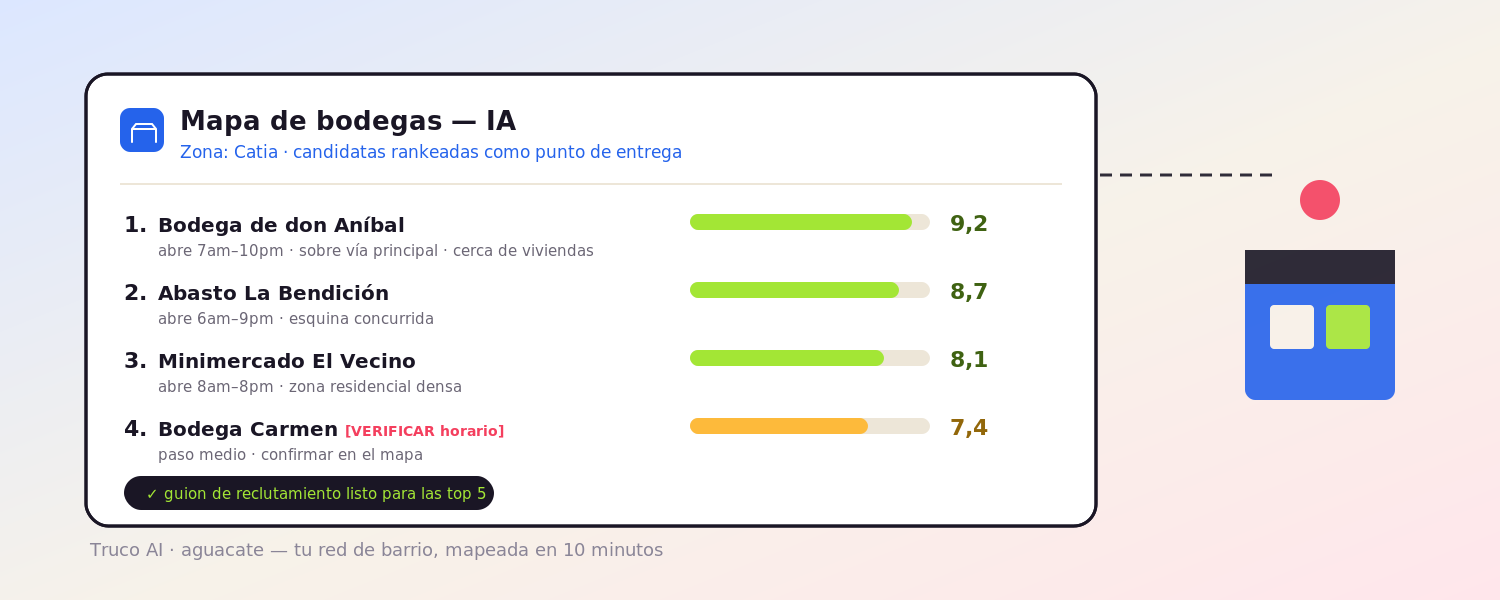
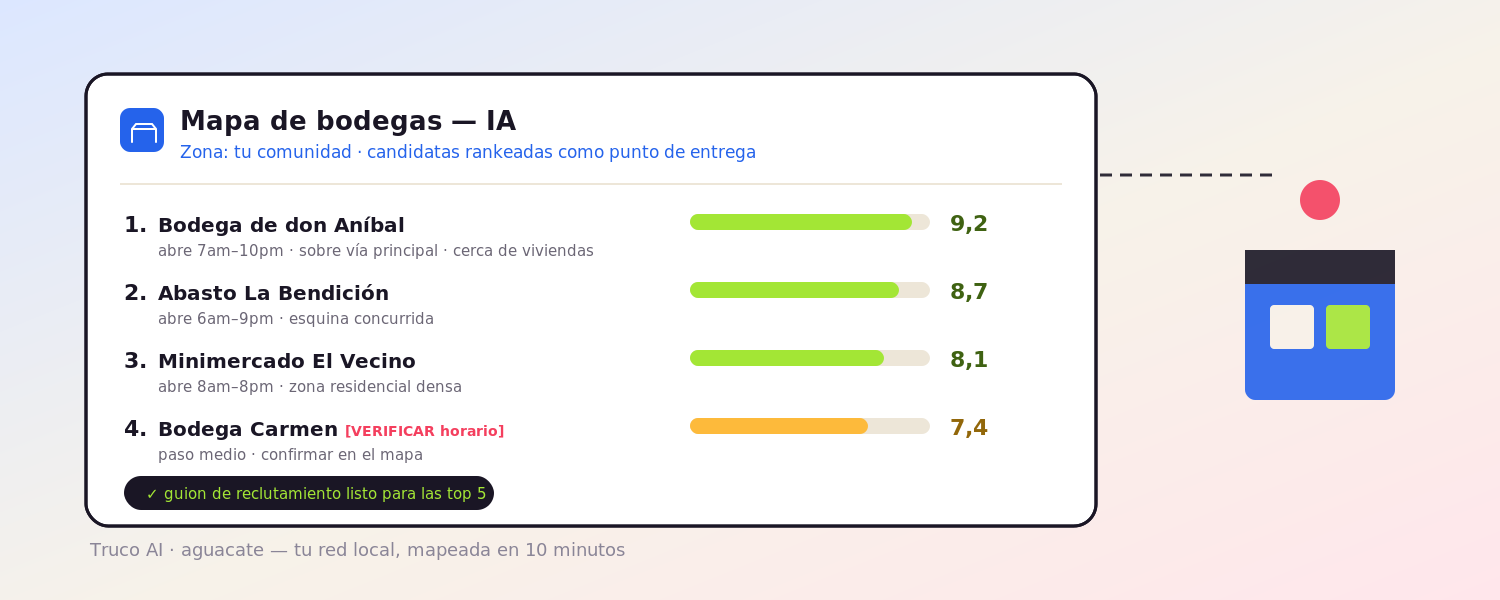
#013 — barrio→comunidad en copy + hero genérico

Changed region(s): [[0.1533, 0.24, 0.5213, 0.27], [0.2147, 0.9, 0.46, 0.93]]

diff --git a/aguacate-013-bodegas-barrio-puntos-entrega/web/index.html b/aguacate-013-bodegas-barrio-puntos-entrega/web/index.html
@@ -55,7 +55,7 @@ tailwind.config={theme:{extend:{
     <div>
       <span class="inline-block bg-lime hardborder rounded-full px-3 py-1 text-xs font-700 mb-5">Para e-commerce y couriers</span>
       <h1 class="font-display text-5xl md:text-6xl leading-[1.03] font-800">Deja de perder <span class="text-cobalt">paquetes</span>.</h1>
-      <p class="text-ink/65 text-lg mt-5 max-w-md">En el barrio, la dirección no aparece y el paquete termina devuelto o perdido —tú comes el costo. Con Esquina llega a la bodega de la esquina, un punto que sí existe en el mapa, y tu cliente lo recoge. Pagas solo por lo que se entrega.</p>
+      <p class="text-ink/65 text-lg mt-5 max-w-md">En la comunidad, la dirección no aparece y el paquete termina devuelto o perdido —tú comes el costo. Con Esquina llega a la bodega de la esquina, un punto que sí existe en el mapa, y tu cliente lo recoge. Pagas solo por lo que se entrega.</p>
       <div class="flex flex-wrap items-center gap-3 mt-7">
         <a href="https://aguacate-demos.pages.dev/aguacate-013-bodegas-barrio-puntos-entrega/" class="bg-cobalt text-white hardborder rounded-xl px-7 py-3.5 font-700 shadow-card">Ver cómo funciona</a>
         <a href="#flujo" class="font-700 px-3 py-3.5 hover:text-cobalt transition">El flujo →</a>
@@ -64,12 +64,12 @@ tailwind.config={theme:{extend:{
     </div>
     <div class="flex justify-center md:justify-end">
       <div class="relative w-full max-w-sm">
-        <!-- mapa en vivo del barrio -->
+        <!-- mapa en vivo de la comunidad -->
         <div class="bg-white hardborder rounded-3xl p-4 shadow-card">
           <div class="flex items-center justify-between mb-2.5">
             <div class="flex items-center gap-2">
               <span class="w-2.5 h-2.5 rounded-full bg-coral pulse-dot"></span>
-              <span class="text-[12.5px] font-700">Esquina · Catia, Caracas</span>
+              <span class="text-[12.5px] font-700">Esquina · Tu comunidad</span>
             </div>
             <span class="text-[10px] font-800 bg-lime text-ink hardborder rounded-full px-2 py-0.5">EN VIVO</span>
           </div>
@@ -121,7 +121,7 @@ tailwind.config={theme:{extend:{
 <section class="py-24 px-5 border-b-2 border-ink bg-ink text-sand">
   <div class="max-w-3xl mx-auto text-center reveal">
     <h2 class="font-display text-4xl md:text-5xl font-800 leading-tight">El último tramo se come tu margen.</h2>
-    <p class="text-sand/70 text-lg mt-5">En el barrio, las casas no tienen número y el mapa no ayuda: 1 de cada 5–7 entregas falla, el paquete se devuelve o se pierde, y tú pagas el costo —reenvío, mercancía, reembolso. La bodega de la esquina, en cambio, está en todos los mapas y abierta hasta tarde.</p>
+    <p class="text-sand/70 text-lg mt-5">En la comunidad, las casas no tienen número y el mapa no ayuda: 1 de cada 5–7 entregas falla, el paquete se devuelve o se pierde, y tú pagas el costo —reenvío, mercancía, reembolso. La bodega de la esquina, en cambio, está en todos los mapas y abierta hasta tarde.</p>
   </div>
 </section>
 
@@ -163,7 +163,7 @@ tailwind.config={theme:{extend:{
       <p class="text-ink/65 mt-2">No por intentos fallidos. Tu costo de última milla se vuelve predecible.</p>
     </div>
     <div class="rounded-2xl p-8 hardborder shadow-card reveal" style="background:#FFE0E6;transition-delay:.1s">
-      <h3 class="font-display text-2xl font-700">Llegas a más barrios</h3>
+      <h3 class="font-display text-2xl font-700">Llegas a más comunidades</h3>
       <p class="text-ink/65 mt-2">A las zonas de dirección informal donde hoy tu tasa de entrega se cae.</p>
     </div>
     <div class="rounded-2xl p-8 hardborder shadow-card reveal" style="background:#EAFBC8;transition-delay:.2s">

diff --git a/aguacate-013-bodegas-barrio-puntos-entrega/index.html b/aguacate-013-bodegas-barrio-puntos-entrega/index.html
@@ -105,7 +105,7 @@ function App(){
 
       <div className="max-w-7xl mx-auto px-5 pb-3">
         <h1 className="font-display text-3xl sm:text-4xl font-700 leading-tight max-w-3xl">Tu paquete te espera <span className="text-cobalt">en la esquina</span>.</h1>
-        <p className="text-ink/60 mt-2 max-w-3xl">La bodega de barrio convertida en punto de entrega de e-commerce. Mira el <b>flujo</b> de una entrega, o entra al <b>dashboard del operador</b> —el negocio que construyes.</p>
+        <p className="text-ink/60 mt-2 max-w-3xl">La bodega de la comunidad convertida en punto de entrega de e-commerce. Mira el <b>flujo</b> de una entrega, o entra al <b>dashboard del operador</b> —el negocio que construyes.</p>
         {/* TABS */}
         <div className="inline-flex items-center gap-1 bg-white hardborder rounded-xl p-1 mt-4 shadow-card">
           <button onClick={()=>setView('sim')} className={"flex items-center gap-1.5 px-4 py-1.5 rounded-lg text-sm font-700 tabx "+(view==='sim'?'bg-ink text-sand':'text-ink/55')}><Icon d={I.play} c={view==='sim'?'#A3E635':'#9aa'} s={14}/>Simulación</button>
